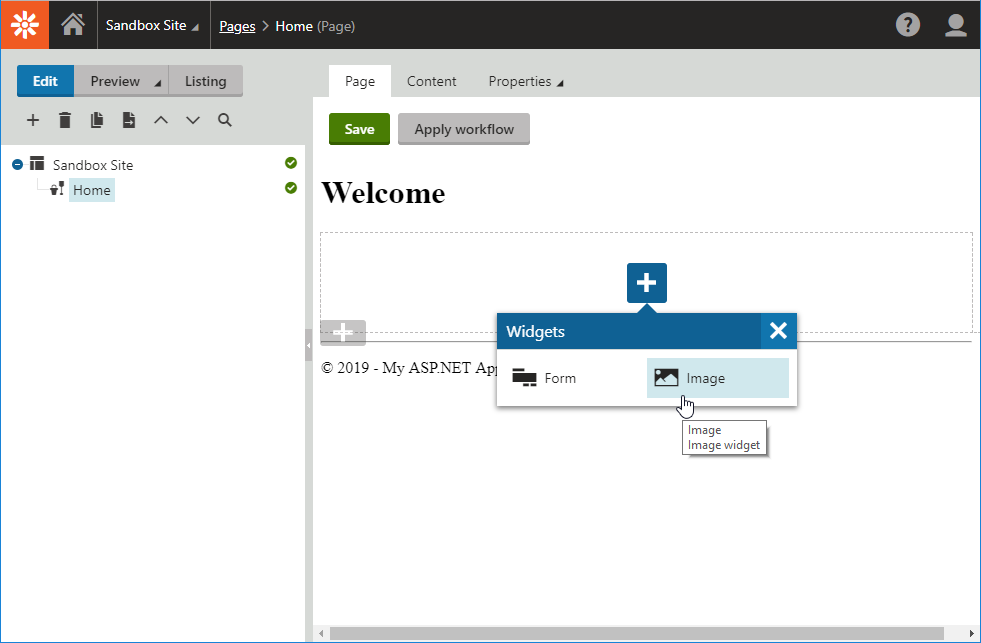
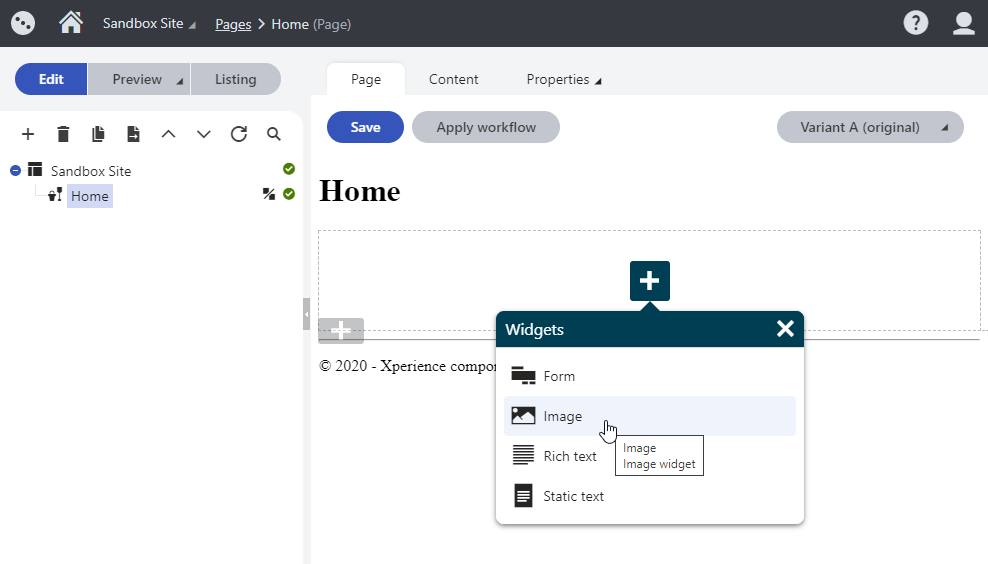
KX-52 Update readme file

diff --git a/README.md b/README.md
@@ -1,68 +1,64 @@
-# Kentico EMS Component Starter
+# Kentico Xperience Component Starter
 
 [![Build status](https://ci.appveyor.com/api/projects/status/st73cvjh2vr7r0ck?svg=true)](https://ci.appveyor.com/project/kentico/ems-mvc-component-starter/branch/master)
 
-This repository helps you to get started with the development of [MVC page builder](https://kentico.com/CMSPages/DocLinkMapper.ashx?version=latest&link=page_builder_mvc) components. It contains an MVC application with a sample widget, inline editor, form component, and section. The MVC application needs to be connected to an instance of the [Kentico](https://www.kentico.com/product/overview) administration application to work properly.
+This repository helps you to get started with the development of [MVC page builder](https://kentico.com/CMSPages/DocLinkMapper.ashx?version=latest&link=page_builder_mvc) components. It contains an ASP.NET Core application with a sample widget, inline editor, form component, and section. The application needs to be connected to an instance of the [Xperience](https://xperience.io/product) administration application to work properly.
 
 ## Component development best practices
 
-To learn about best practices and development guidelines for [MVC page builder](https://kentico.com/CMSPages/DocLinkMapper.ashx?version=latest&link=page_builder_mvc) components, visit respective pages in the Kentico Documentation:
-* [Widgets](https://kentico.com/CMSPages/DocLinkMapper.ashx?version=latest&link=widgets_developing_mvc)
-* [Sections](https://kentico.com/CMSPages/DocLinkMapper.ashx?version=latest&link=page_builder_sections_mvc)
+To learn about best practices and development guidelines for [MVC page builder](https://kentico.com/CMSPages/DocLinkMapper.ashx?version=latest&link=page_builder_mvc) components, visit respective pages in the Xperience Documentation:
+* [Widgets](https://kentico.com/CMSPages/DocLinkMapper.ashx?version=latest&link=core_pagebuilder_widgets)
+* [Sections](https://kentico.com/CMSPages/DocLinkMapper.ashx?version=latest&link=core_pagebuilder_sections)
 * [Form components](https://kentico.com/CMSPages/DocLinkMapper.ashx?version=latest&link=formbuilder_components_mvc)
-* [Inline editors](https://kentico.com/CMSPages/DocLinkMapper.ashx?version=latest&link=widgets_inline_editors_mvc)
+* [Inline editors](https://kentico.com/CMSPages/DocLinkMapper.ashx?version=latest&link=core_pagebuilder_inlineeditors)
 * [Personalization condition types](https://kentico.com/CMSPages/DocLinkMapper.ashx?version=latest&link=dev_personalization_conditiontype_mvc)
 
-### Embedded Razor views
-
-The MVC Component Starter project is set-up to embed the component's Razor views into compiled DLLs to improve the component re-distribution. The embedding process is configured in the `Targets/Kentico.EmbeddedViews.targets` file and linked in the `MyCompany.Components.Views` project's `.csproj` file. Afterward, the build process searches for `.cshtml` files in the `Views` folder and embeds them into the final DLL. In case you make changes to the project, folder, or file names which would break the embedding process, you need to reflect these changes in this `Kentico.EmbeddedViews.targets` file.
 
 ### Component front-end development
 
 To provide a better front-end development experience for the components, a basic Webpack configuration with *npm*, *TypeScript*, and *less* pre-processor support has been pre-configured. The front-end source files of components are located in the `Assets` folder by default. You can configure this location in `wepback/constants.js` file, alongside with the component's entry file name.  By default, the name is `main.ts` or `main.less` for components that don't require custom javascript code, e.g. Sections.
 
-To start with the component development, run the `npm run dev` command. Webpack then automatically searches for changes in the source files and transpiles them in the Sandbox site's `Content` folder, where they're automatically detected by the [components system bundles](https://kentico.com/CMSPages/DocLinkMapper.ashx?version=latest&link=widgets_developing_mvc#DevelopingwidgetsinMVC-Addingscriptsandstylesforwidgets).
+To start with the component development, run the `npm run dev` command. Webpack then automatically searches for changes in the source files and transpiles them in the Sandbox site's `wwwroot` folder, where they're automatically detected by the [components system bundles](https://kentico.com/CMSPages/DocLinkMapper.ashx?version=latest&link=core_pagebuilder_widgets#DevelopingpagebuilderwidgetsinASP.NETCore-Addingscriptsandstylesforwidgets).
 
 If you want to build component scripts for production use, run the `npm run build` command. This generates both minified and non-minified versions of the production scripts inside the components `Content` folder (e.g. `MyCompany.Components/Content`).
 
 ## Getting started
 
-### Installing the Kentico administration interface
+### Installing the Xperience administration interface
 
-1. Download the [Kentico installer](https://www.kentico.com/download-demo/trial-version), if you do not have one already.
-1. To install the Kentico administration application without any site from the [command line](https://kentico.com/CMSPages/DocLinkMapper.ashx?version=latest&link=installation_cmd):
-    * Run the installer and use the [`KenticoInstallationProfile.xml`](/KenticoInstallationProfile.xml) [XML configuration](https://kentico.com/CMSPages/DocLinkMapper.ashx?version=latest&link=cmd_install_xml).
-        * Specify the location where Kentico is installed by defining the `TargetFolder` attribute of the `IIS` element. (:warning: Do not use the location where your installer `.exe` file is located)
+1. Download the [Xperience installer](https://xperience.io/get-started/trial), if you do not have one already.
+1. To install the Xperience administration application without any site from the [command line](https://kentico.com/CMSPages/DocLinkMapper.ashx?version=latest&link=installation_cmd):
+    * Run the installer and use the [`XperienceInstallationProfile.xml`](/XperienceInstallationProfile.xml) [XML configuration](https://kentico.com/CMSPages/DocLinkMapper.ashx?version=latest&link=cmd_install_xml).
+        * Specify the location where Xperience is installed by defining the `TargetFolder` attribute of the `IIS` element. (warning: Do not use the location where your installer `.exe` file is located)
         * To modify the connection to a different database server, configure the `SQL` element in the [configuration XML file](https://kentico.com/CMSPages/DocLinkMapper.ashx?version=latest&link=cmd_install_xml).
-        * To add a license to the Kentico instance, adjust the `Licenses` element in the [configuration XML file](https://kentico.com/CMSPages/DocLinkMapper.ashx?version=latest&link=cmd_install_xml).
+        * To add a license to the Xperience instance, adjust the `Licenses` element in the [configuration XML file](https://kentico.com/CMSPages/DocLinkMapper.ashx?version=latest&link=cmd_install_xml).
          ```sh
-         .\Kentico_12_0_trial.exe KenticoInstallationProfile.xml
+         .\Xperience_13_0_trial.exe XperienceInstallationProfile.xml
          ```
 
-    * If the installer notifies you that there are program files already installed in your system, run the following command to uninstall current Kentico program files and then rerun the previous installation command.
+    * If the installer notifies you that there are program files already installed in your system, run the following command to uninstall current Xperience program files and then rerun the previous installation command.
 
       ```sh
-      .\Kentico_12_0_trial.exe /u
+      .\Xperience_13_0_trial.exe /u
       ```
 
 1. [Apply](https://kentico.com/CMSPages/DocLinkMapper.ashx?version=latest&link=upg_hotfix) the latest [hotfix](https://devnet.kentico.com/download/hotfixes).
 
 1. Open the administration interface (already registered in IIS with `_Admin` suffix) in your preferred browser and [import the site export package](https://kentico.com/CMSPages/DocLinkMapper.ashx?version=latest&link=site_objects_importing) ([`SandboxSite.zip`](/SandboxSite.zip)). The package contains:
-     * Site (with configured *Presentation URL*)
-     * Page type (configured with the [URL pattern](https://kentico.com/CMSPages/DocLinkMapper.ashx?version=latest&link=content_pages_url) `/` and the *Use page tab* setting enabled)
+     * Site (with configured *Presentation URL* and routing mode set to the content tree-based)
+     * Page type (with *Page builder* and *URL* features enabled)
          * A page based on this page type
      * *Web farm mode* set to *Automatic*
 
+
 ### Setting up the MVC application
-1. Clone this repository (MVC application) to a different folder than the Kentico administration interface.
+1. Clone this repository (MVC application) to a different folder than the Xperience administration interface.
 
     ```sh
     git clone https://github.com/Kentico/ems-mvc-component-starter
     ```
 
-1. Rename the [`AppSettings.config.template`](/SandboxSite/AppSettings.config.template) file to `AppSettings.config` and set the hash string salt (`CMSHashStringSalt`) to match the hash string salt in the `web.config` application settings of the Kentico administration interface.
-
-1. Rename the [`ConnectionStrings.config.template`](/SandboxSite/ConnectionStrings.config.template) file to `ConnectionStrings.config` and set the connection string (`CMSConnectionString`) to match the connection string in the `web.config` application settings of the Kentico administration interface.
+1. Rename the [`appsettings.Development.template`](/SandboxSite/appsettings.Development.template) file to `appsettings.Development.json` and set both the connection string (`CMSConnectionString`) and the hash string salt (`CMSHashStringSalt`) to match the connection string and the hash string salt in the `web.config` application settings of the Xperience administration interface.
 
 1. In the Visual Studio:
     * Open the [`MvcComponentStarter.sln`](/MvcComponentStarter.sln) solution.
@@ -82,7 +78,6 @@ If you want to build component scripts for production use, run the `npm run buil
 
 1. In the Visual Studio:
     * Run the SandboxSite application; Select the project and press the F5 key.
-        * Note: You may receive an error from the Roslyn compiler. To fix this issue, reopen the Visual Studio. This error occurs when the solution is compiled before the NuGet packages are restored.
 
 The page builder is now set up and ready to be used. To navigate to a page with the page builder:
    1. Open the administration interface in your preferred browser.
